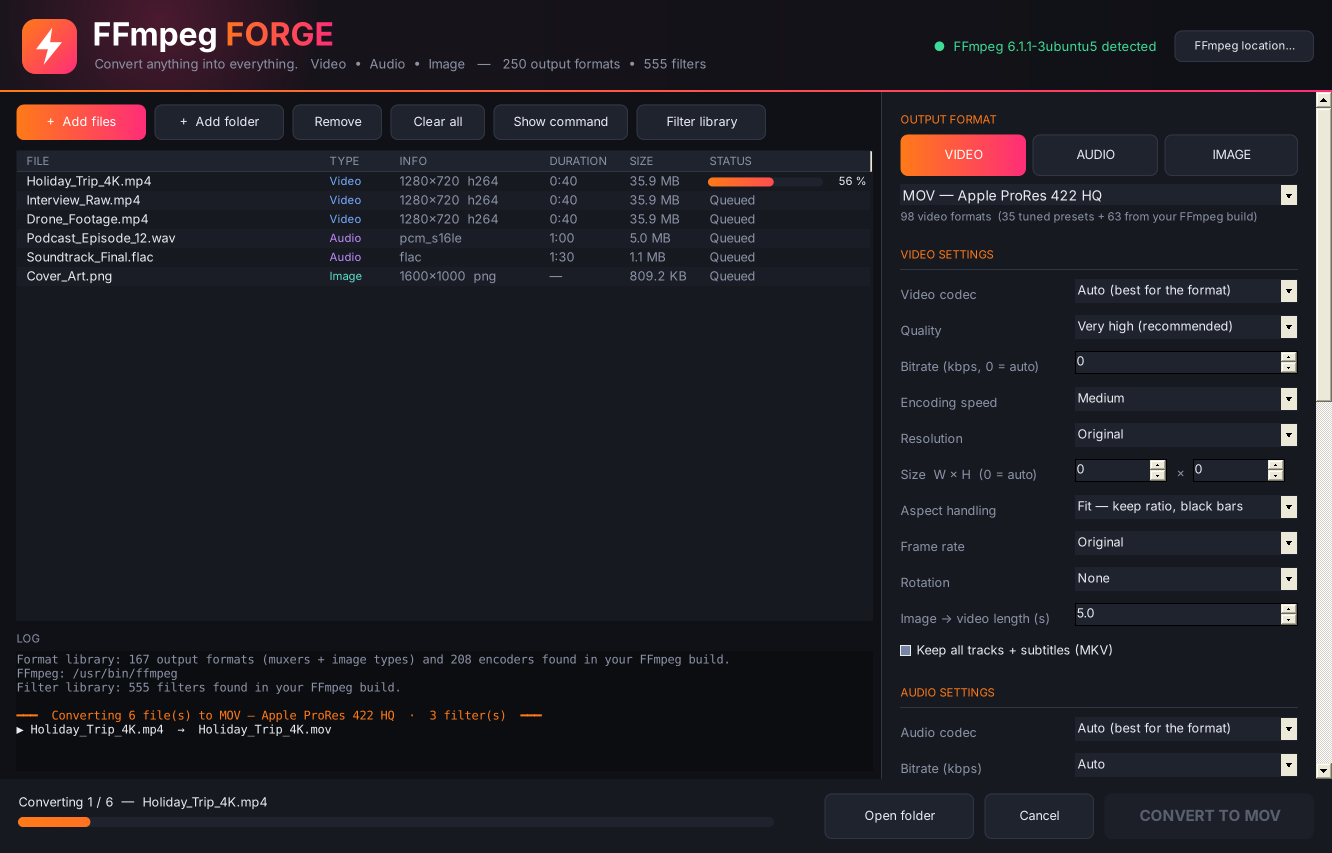
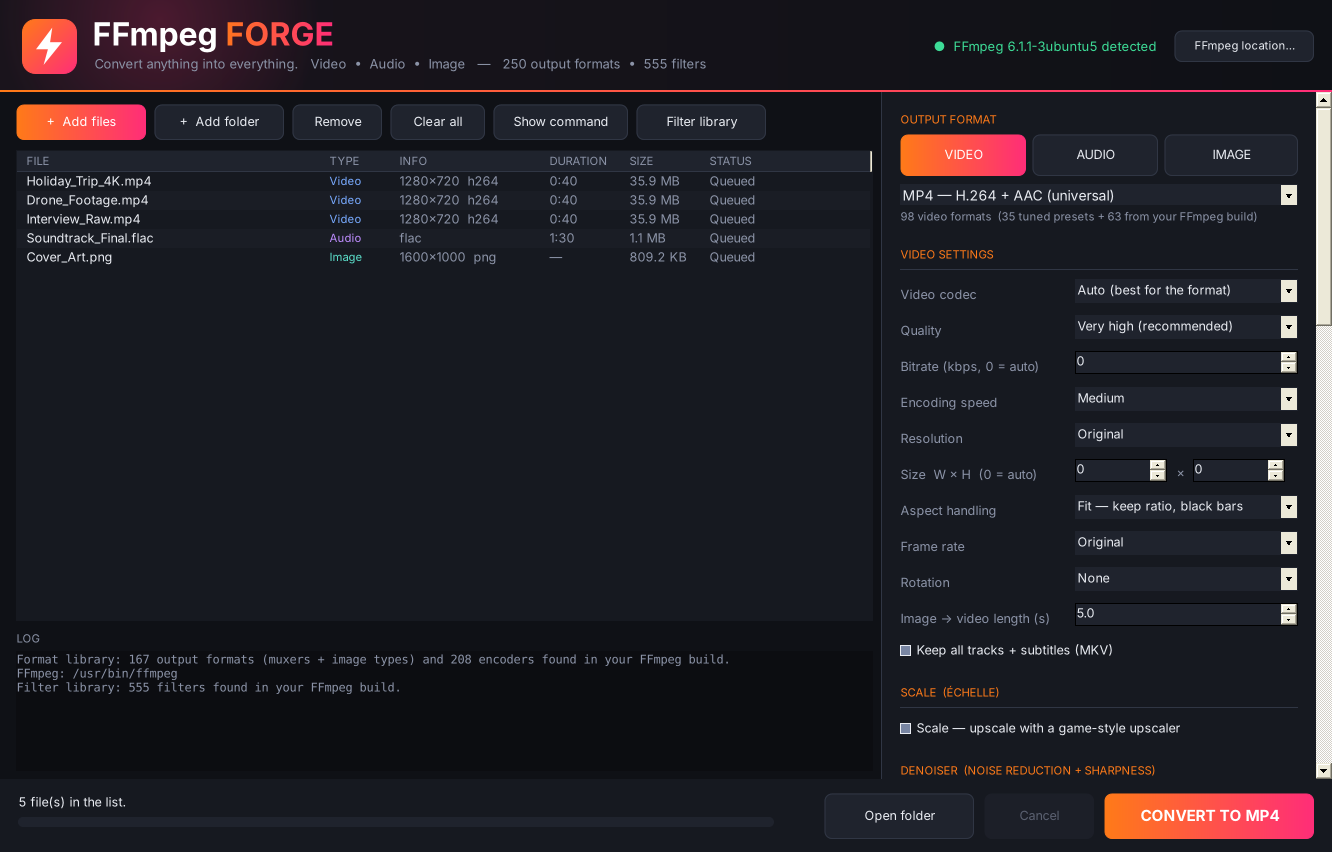
Add files via upload

diff --git a/README.md b/README.md
@@ -1,0 +1,243 @@
+<p align="center">
+  <img src="docs/logo.png" width="96" alt="FFmpeg Forge logo">
+</p>
+
+<h1 align="center">FFmpeg Forge</h1>
+
+<p align="center">
+  <b>Convert anything into everything.</b><br>
+  A fast, dark-themed Windows converter for video, audio and images, powered by FFmpeg.
+</p>
+
+<p align="center">
+  <img alt="Platform" src="https://img.shields.io/badge/platform-Windows%2010%20%7C%2011-0078D6">
+  <img alt=".NET" src="https://img.shields.io/badge/.NET%20Framework-4.x-512BD4">
+  <img alt="Powered by FFmpeg" src="https://img.shields.io/badge/powered%20by-FFmpeg-007808">
+  <img alt="Version" src="https://img.shields.io/badge/version-1.1.2-FF7A18">
+  <img alt="Portable" src="https://img.shields.io/badge/portable-FFmpeg%209.0.2%20included-E8344E">
+</p>
+
+<p align="center">
+  <img src="docs/screenshot-main.png" alt="FFmpeg Forge main window" width="900">
+</p>
+
+<p align="center">
+  <a href="../../releases/latest"><b>⬇ Download FFmpeg Forge 1.1.2</b></a> ·
+  Portable edition with FFmpeg 9.0.2 included, or the light edition (≈ 0.5 MB) for your own FFmpeg
+</p>
+
+---
+
+## 🆕 What's new in 1.1.2
+
+| | |
+|---|---|
+| 🧹 **Denoiser** | Neat Video-style noise reduction: auto noise profile, temporal 3D FFT filter, detail recovery and sharpening |
+| 🎒 **Portable edition** | One folder with FFmpeg 9.0.2 *full*. Nothing to install, and settings stay in the folder |
+| 🧪 **FSR 2 / FSR 3** | Experimental temporal upscaling, with optional frame generation ×2 |
+| ✨ **OptiScaler** | Supersampled output scaling with OptiScaler's RCAS and downscalers |
+| 🎶 **Spatial Music** | Immersive upmix that recreates the sound of Atmos music mixes, with Spatial Audio for headphones |
+| 🎯 **FSR 1 = Lossless Scaling** | Same rendering as Lossless Scaling, plus 10-bit 4:4:4 "screen quality" encoding |
+
+---
+
+## ✨ Features
+
+### 🎞 Every format your FFmpeg supports
+- **Video, audio and image output.** Tuned presets come first, then **every muxer and still-image type found in your `ffmpeg.exe`**. The list is read live from FFmpeg, so a newer build means more formats.
+- **Every encoder** of your build is selectable, alongside hand-tuned presets for H.264, H.265, AV1, VP9, VP8 and others.
+- **Apple ProRes:** 422 Proxy, 422 LT, 422, 422 HQ, 4444 and 4444 XQ (with alpha).
+- **Avid DNxHR:** LB, SQ, HQ, HQX (10-bit) and 444 (10-bit). There is also **FFV1** for lossless archiving.
+- **GPU encoders:** NVIDIA NVENC (H.264, H.265, AV1), Intel QuickSync and AMD AMF.
+- **Formats with strict rules are fixed automatically** (frame size, frame rate, sample rate, channels). This covers DV, GXF, MXF D-10, H.261, AMV, GSM, AMR, DTS and more.
+
+### 📐 Resolution without limits
+- Presets range from 8K UHD, DCI 4K, 4K and 1080p to vertical 9:16 (Reels/Shorts/TikTok), square, 4:5 and cinema 2.39:1.
+- You can also type **any width × height**. Use `0` for automatic to keep the aspect ratio.
+- **Aspect handling:** *Stretch*, *Fit* (black bars) or *Fill* (crop).
+
+### 🔊 Immersive audio: Dolby Atmos & DTS:X layouts
+- **Channel layouts** from mono to 7.1, plus the immersive beds 5.1.2, 5.1.4, 7.1.2, 7.1.4 (Dolby Atmos / DTS:X), **7.1.6** and **9.1.6** (Dolby Atmos), 9.1.4 (DTS:X Pro) and 22.2.
+- Up to 24 discrete channels in PCM 24-bit (WAV, W64, CAF, MOV, MKV), Opus, Vorbis, WavPack or TTA.
+- **Automatic immersive upmix** turns a stereo track into a real multichannel mix. Choose Auto, **Spatial Music**, Music (classic), Cinema or Live concert:
+  - the lead vocal or dialogue is steered to the **center speaker**;
+  - instruments keep their place across front, wides and sides;
+  - bass and kick drum go to the **LFE**;
+  - reverb, room, cymbals and air fill the **wides and height speakers**, and the voice never goes up.
+
+  <p align="center"><img src="docs/screenshot-upmix.png" alt="Immersive upmix" width="420"></p>
+
+- **Spatial Music** is the default for audio. It recreates the sound of the Dolby Atmos music mixes on Apple Music:
+  - the lead vocal stays dry in the center;
+  - instruments open up to the sides and wides;
+  - cymbals and air go overhead;
+  - every surround and height speaker plays its own decorrelated reverb, with a vocal "plate" above you.
+- **🎧 Spatial Audio for headphones:** pick it in *Channels* to render the 7.1.4 mix in 3D for any headphones. It uses measured HRTFs and a virtual listening room, and writes a normal stereo MP3 / AAC / FLAC file. A multichannel file played on headphones is only folded down to stereo, so choose this option for headphones.
+
+  <p align="center"><img src="docs/screenshot-spatial-audio.png" alt="Spatial Audio for headphones" width="420"></p>
+
+- **Atmos / DTS:X passthrough** copies an existing TrueHD Atmos, E-AC-3 JOC or DTS:X track bit-for-bit.
+- FFmpeg cannot encode Atmos objects or DTS:X metadata, so new mixes are written as channel-based beds.
+
+### 🔎 Scale: game-style upscalers for video
+<p align="center"><img src="docs/screenshot-scale.png" alt="Scale section" width="420"></p>
+
+- Tick **Scale** and choose an upscaler:
+  - game upscalers: **AMD FSR 1** (EASU + RCAS), **NVIDIA Image Scaling (NIS)**, **Snapdragon GSR**;
+  - temporal (experimental): **FSR 2** and **FSR 3** (+ frame generation ×2), with the motion estimated from the video, since a video file has no game motion vectors;
+  - for anime: **Anime4K**;
+  - for pixel art: **xBR**, **hqx**, **Integer**, **Nearest neighbor**, **Sharp bilinear**;
+  - general purpose: **BCAS** (bicubic + CAS), **EWA Lanczos Sharp**, **Lanczos**, **Bicubic**, **Spline**.
+- **Sharpness** defaults to 100 %, and **Optimized** (GPU through FFmpeg libplacebo / Vulkan) is ticked by default. Choose a ×1.5–×4 factor or scale to your target resolution.
+- **Screen quality encode** and **Full chroma 4:4:4** are ticked by default, so the file keeps what the upscaler draws: 10-bit H.265 / AV1 / VP9, a CRF 4 steps finer, edge-preserving encoder tuning, and full colour resolution for H.265 / VP9, as on screen. Untick 4:4:4 for TVs and phones that cannot play it.
+- The FSR, NIS and SGSR shaders are FFmpeg Forge ports of the official open-source SDKs (AMD MIT, NVIDIA MIT, Qualcomm BSD-3). They are embedded in the .exe, and their licenses are in `SHADER_LICENSES.txt`.
+
+### 🧹 Denoiser: Neat Video-style noise reduction
+<p align="center"><img src="docs/screenshot-denoiser.png" alt="Denoiser section" width="420"></p>
+
+- Tick **Denoiser** for videos and images. It works like Neat Video:
+  - an **auto noise profile** measures each video's luma and colour noise;
+  - a **temporal 3D FFT** filter removes the noise using 3 frames;
+  - **detail recovery** mixes a little of the original texture back in;
+  - **luma sharpening** restores crispness.
+- Presets: Auto, Light, Medium, Strong, Very strong, Film grain, Low light / smartphone, Animation and Old VHS.
+- Quality: Balanced, High quality (+ non-local means) or Fast (hqdn3d). Strength goes from 0 to 200 % and sharpness from 0 to 100 %.
+- It runs before Scale, OptiScaler and RTX.
+
+### ✨ OptiScaler: supersampled upscaling
+<p align="center"><img src="docs/screenshot-optiscaler.png" alt="OptiScaler section" width="420"></p>
+
+- Tick **OptiScaler** for videos and images. It works on top of the **Scale** type, or with EWA Lanczos Sharp when Scale is off.
+- It works like OptiScaler's **Output Scaling**:
+  1. The upscaler renders at output × **1.25–3** (×1.5 by default).
+  2. OptiScaler's **RCAS** sharpens that picture (40 % by default, with optional contrast adaptation).
+  3. A downscaler brings it to the output size: **Bicubic**, **Catmull-Rom**, **Lanczos 2** (default), **Lanczos 3**, **Kaiser 2**, **Kaiser 3** or **Magic Kernel**.
+- The result has finer edges, less aliasing and less ringing.
+- It runs on the GPU through libplacebo / Vulkan.
+- These shaders are a GLSL port of [OptiScaler](https://github.com/optiscaler/OptiScaler)'s open-source shaders and are licensed under **GPL-3.0**.
+- OptiScaler's DLSS, XeSS, FSR 2+ and MAS need a game's motion vectors and depth buffer, so they cannot run on video files.
+
+### 🟩 NVIDIA RTX AI: tick what you want
+<p align="center">
+  <img src="docs/screenshot-rtx.png" alt="NVIDIA RTX AI section" width="420">
+</p>
+
+- **RTX Video Super Resolution** (AI upscaling and artifact clean-up) with quality 1–4 and an upscale factor of ×2, ×3 or ×4.
+- **RTX TrueHDR** (SDR → HDR10) with contrast, saturation, middle gray and peak brightness (nits). The output is encoded as HDR10 with 10-bit color.
+- **DLSS Super Resolution** (NVIDIA NGX AI) with five modes: DLAA, Quality, Balanced, Performance and Ultra Performance.
+- **Three engines are supported:**
+  - **NVIDIA driver (built-in, default):** `ForgeRTX.exe` uses the RTX Video feature of your NVIDIA driver through the D3D11 video processor, the same way Chrome, VLC and mpv do. No SDK or extra download is needed. Enable *RTX Video Enhancement* in the NVIDIA App;
+  - an FFmpeg build that includes NVIDIA's RTX Video filters (`vsr_cuda`, `truehdr_cuda`, `isr_cuda`, `dlpp_drv_cuda`). All their real options open in the visual editor;
+  - **[RTXVideoProcessor](https://github.com/DrC0ns0le/RTXVideoProcessor)**, which is built on the official NVIDIA RTX Video SDK and handles VSR ×2 and TrueHDR.
+- Requires an NVIDIA RTX GPU and a recent driver. Each engine has its own GPU requirements.
+
+### 🎛 Every FFmpeg filter, with a visual editor
+<p align="center">
+  <img src="docs/screenshot-filters.png" alt="Filter library" width="820">
+</p>
+
+- The **filter library** lists every filter of your build (500+ in a full build). You can search and sort by category: Video, Audio, Multi-input, Source, Sink and Timeline.
+- The **parameter editor is generated automatically** for each filter. It shows defaults and ranges, with drop-downs for choices, a color picker, a file picker and help on hover.
+- **Timeline support** lets you apply a filter only between two timestamps.
+- **45+ one-click presets** include black & white, sepia, cinematic look, sharpen, denoise, deinterlace, stabilize, crop 16:9 / 1:1 / 9:16, speed ×2, slow motion, text watermark, bass boost, noise removal, karaoke, 8D audio and pitch shift.
+- **Filter chains** let you enable or disable each filter, reorder them, and edit by double-click.
+- An **advanced `-filter_complex` box with extra inputs** handles multi-input filters such as watermark overlay, `amix`, `hstack` and `concat`.
+
+### ⚡ Workflow
+- Drag & drop files or **whole folders**. Batch conversion shows per-file and overall progress.
+- **Cross-media conversions:**
+  - video → image (one frame, every frame, or one every N seconds);
+  - image → video;
+  - audio → waveform video;
+  - audio → waveform picture.
+- **Trim** (start / end), rotation and mirroring, frame rate, bitrate, quality and encoding speed.
+- Audio volume, **EBU R128 loudness normalization**, sample rate and channels.
+- **Originals are never overwritten.** If a name is taken, the new file gets a suffix: `name (2).mp4`.
+- **Show command** prints the exact FFmpeg command line and copies it to the clipboard.
+- Plain-English error hints, a color log, and settings remembered between sessions.
+
+---
+
+## 📦 Installation
+
+### 🎒 Portable edition (recommended)
+1. Download **`FFmpegForge-1.1.2-Portable.rar`** from the [Releases](../../releases) page.
+2. Extract it anywhere: a USB stick, `D:\Tools\` or another PC.
+3. Double-click **`FFmpegForge.exe`**.
+
+The archive already contains **FFmpeg 9.0.2 *full* (gyan.dev)**: `ffmpeg.exe`, `ffprobe.exe` and `ffplay.exe`. Nothing is installed, and nothing is written to the registry or `%APPDATA%`, because settings are kept in `Settings\`.
+
+```
+FFmpegForge-1.1.2-Portable\
+├─ FFmpegForge.exe        FFmpeg Forge 1.1.2
+├─ ForgeRTX.exe           NVIDIA RTX Video helper
+├─ bin\                   ffmpeg.exe · ffprobe.exe · ffplay.exe (9.0.2 full)
+├─ FFmpeg\                FFmpeg licence, build info, HTML docs, presets
+├─ Settings\              created on first start
+├─ Source\                FFmpeg Forge source code + build.bat
+├─ portable.txt           portable mode switch (delete it to use %APPDATA%)
+└─ README-PORTABLE.txt
+```
+
+### 🪶 Light edition (your own FFmpeg)
+1. Download FFmpeg for Windows. A *full* build from [gyan.dev](https://www.gyan.dev/ffmpeg/builds/) or [BtbN](https://github.com/BtbN/FFmpeg-Builds/releases) gives the most formats, encoders and filters.
+2. Extract it so that `ffmpeg.exe` and `ffprobe.exe` are in **`C:\FFmpeg\bin\`**.
+3. Download **`FFmpegForge.rar`** from the [Releases](../../releases) page and extract it into `C:\FFmpeg\`.
+4. Double-click **`FFmpegForge.exe`**.
+
+> FFmpeg Forge looks for FFmpeg in this order:
+> 1. next to the `.exe`;
+> 2. in `bin\` next to the `.exe` (in portable mode, `bin\` always comes first);
+> 3. in `C:\FFmpeg\bin\`;
+> 4. in your `PATH`.
+>
+> You can also pick it manually with **“FFmpeg location…”**.
+
+> Windows SmartScreen may warn you because the executable is not signed. Click **More info → Run anyway**.
+
+**Requirements:**
+- Windows 10 or 11 (.NET Framework 4.x is included).
+- FFmpeg 5.0 or newer for the light edition.
+- A Vulkan graphics driver for the GPU features (Scale, OptiScaler, FSR 2/3).
+- An NVIDIA RTX GPU for RTX AI.
+
+---
+
+## 🛠 Build from source
+
+You don't need Visual Studio: Windows already includes the C# compiler.
+
+```bat
+cd FFmpegForge
+build.bat
+```
+
+Or by hand:
+
+`build.bat` compiles `src\*.cs` with the C# compiler included in Windows. It also embeds the shaders (`shaders\*.glsl`) and the HRTF data (`src\hrir_ircam.bin`) as resources.
+
+| File | Role |
+|---|---|
+| `src/MainForm.cs` | Main window and conversion queue |
+| `src/Engine.cs` | FFmpeg command builder, runner, progress parsing, format rules |
+| `src/Catalog.cs` | Reads every muxer and encoder from `ffmpeg.exe` (cached) |
+| `src/Filters.cs` | Filter library, parameter editor, presets |
+| `src/Formats.cs` | Tuned format and codec presets |
+| `src/Controls.cs` | Dark theme and custom controls |
+| `src/Scaling.cs` | Scale, FSR 2/3, OptiScaler, screen-quality encoding |
+| `src/Denoise.cs` | Denoiser: noise profile and filter chain |
+| `src/Spatial.cs` | Spatial Music reverbs and binaural (HRTF) rendering |
+| `src/Rtx.cs` · `rtxhelper/ForgeRTX.c` | NVIDIA RTX AI engines |
+| `shaders/` | FSR 1, FSR 2/3, NIS, SGSR, Anime4K and OptiScaler GLSL shaders |
+
+---
+
+## 🙏 Credits
+
+- **[FFmpeg](https://ffmpeg.org)** does all the work behind the scenes. FFmpeg Forge is a graphical front-end that calls `ffmpeg.exe` and `ffprobe.exe`. The portable edition ships the **unmodified FFmpeg 9.0.2 *full* build by [gyan.dev](https://www.gyan.dev/ffmpeg/builds/)** under the GNU GPL v3. Its licence and build information are in `FFmpeg\`, and its source code is at [ffmpeg.org](https://ffmpeg.org/download.html).
+- **Shaders and data:**
+  - AMD FidelityFX FSR (MIT), NVIDIA Image Scaling (MIT), Snapdragon GSR (BSD-3) and Anime4K (MIT);
+  - [OptiScaler](https://github.com/optiscaler/OptiScaler) shaders (GPL-3.0);
+  - IRCAM LISTEN HRTF data, as distributed with WebKit.
+  - All the details are in `SHADER_LICENSES.txt`.
+- FFmpeg is a trademark of Fabrice Bellard, originator of the FFmpeg project. FFmpeg Forge is an independent project, not affiliated with or endorsed by the FFmpeg project.
